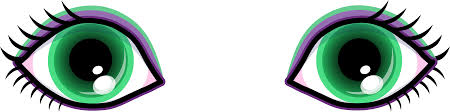
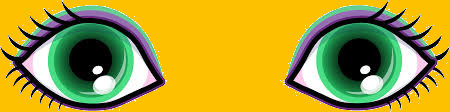
comment

diff --git a/choose_screen.py b/choose_screen.py
@@ -1,4 +1,4 @@
-import pygame, label, buttons
+import pygame, label, buttons, img
 def clear(color):
 	button_rec = pygame.Rect(0,0,500,500)
 	button_sq = pygame.Surface([500, 500])
@@ -8,16 +8,40 @@ if __name__ == "__main__":
 	pygame.init()
 	choose_screen = pygame.display.set_mode((500,500))
 	choose_screen.fill((255,255,255))
-	eyes = buttons.button((200,100),(20,20),(255,0,0))
+	'''eyes = buttons.button((200,100),(20,20),(255,0,0))
 	eyes.draw(choose_screen)
-	eyesl = label.Label(((200,100),(20,20),(0,0,0),	
 	noses = buttons.button((200,100),(20,130),(0,0,0))
 	noses.draw(choose_screen)
 	mouths = buttons.button((200,100),(230,20),(0,255,0))
 	mouths.draw(choose_screen)
 	hair = buttons.button((200,100),(230,130),(0,0,255))
+	hair.draw(choose_screen)'''
+	face = img.img((300,400),(100,60),"face.png")
+	face.draw(choose_screen)
+	hair = img.img((200,100),(153,60),"hair2boy.jpeg")
 	hair.draw(choose_screen)
-	
+	mouth = img.img((100,80),(200,300),"mouth.jpeg")
+	mouth.draw(choose_screen)
+	nose = img.img((60,50),(220,220),"nose1.jpeg")
+	nose.draw(choose_screen)
+	eyes = img.img((150,50),(180,120),"images.jpeg")
+	eyes.draw(choose_screen)
+	next = img.img((50,50),(420,120),"next.png")
+	next.draw(choose_screen)
+	pre = img.img((50,50),(40,120),"pre.png")
+	pre.draw(choose_screen)
+	next = img.img((50,50),(420,220),"next.png")
+	next.draw(choose_screen)
+	pre = img.img((50,50),(40,220),"pre.png")
+	pre.draw(choose_screen)
+	next = img.img((50,50),(420,320),"next.png")
+	next.draw(choose_screen)
+	pre = img.img((50,50),(40,320),"pre.png")
+	pre.draw(choose_screen)
+	next = img.img((50,50),(420,70),"next.png")
+	next.draw(choose_screen)
+	pre = img.img((50,50),(40,70),"pre.png")
+	pre.draw(choose_screen)
 	while True:
 		ev = pygame.event.poll()
 

diff --git a/main_game.py b/main_game.py
@@ -6,23 +6,13 @@ def clear(color):
 	main_screen.blit(button_sq,button_rec)
 if __name__ == "__main__":
 	pygame.init()
-	'''main_screen = pygame.display.set_mode((500,500))
+	main_screen = pygame.display.set_mode((500,500))
 	main_screen.fill((255,255,255))
 	a = buttons.button((110,60),(360,255),(255,151,153))
 	a.draw(main_screen)
-<<<<<<< HEAD
-	b = buttons.button((200,20),(300,30),(0,234,0))
-	b.draw(main_screen)'''
 	
 
-	choose_screen = pygame.display.set_mode((500,500))
-	choose_screen.fill(255,255,255)
-	eyes = buttons.button((20,20),(200,100)),(255,0,0))
-	noses = buttons.button((20,220),(200,100),(255,0,0))
-	mouths = buttons.button((120,20),(200,100),(255,0,0))
-	hair = buttons.button((120,220),(200,100),(255,0,0))
 	
-=======
 	b = label.Label((370,270) , (75,30) , (232,32,61) , "None", 40, "Female")
 	b.draw(main_screen)
 	c = buttons.button((110,60),(70,255),(255,151,153))
@@ -32,14 +22,11 @@ if __name__ == "__main__":
 	e = label.Label((180,150) , (60,60) , (232,14,33) , "None", 50, "Welcome !")
 	e.draw(main_screen)
 
->>>>>>> 36555160eb342a3f3bdb7578f77869b2e7897c26
 	while True:
 		ev = pygame.event.poll()
 
 		#CODE...
-<<<<<<< HEAD
 		pygame.display.flip()
-=======
-	wq	pygame.display.flip()
+
+		pygame.display.flip()
 		
->>>>>>> 36555160eb342a3f3bdb7578f77869b2e7897c26

diff --git a/img.py b/img.py
@@ -1,0 +1,11 @@
+import pygame
+class img(object):
+	def __init__(self,size,location,url):
+		self.size = size
+		self.location = location
+		self.url = url
+	def draw(self,main_screen):
+		pic  = pygame.Rect(self.location[0],self.location[1],self.size[0],self.size[1])
+		img = pygame.image.load(self.url)
+		img =  pygame.transform.scale(img, (self.size[0], self.size[1]))
+		main_screen.blit(img, pic)

diff --git a/male.py b/male.py
@@ -1,0 +1,7 @@
+class male(object):
+	def __init__(self):
+		self.hair = 0
+		self.eye = 0
+		self.nose = 0
+		self.mouth = 0
+
